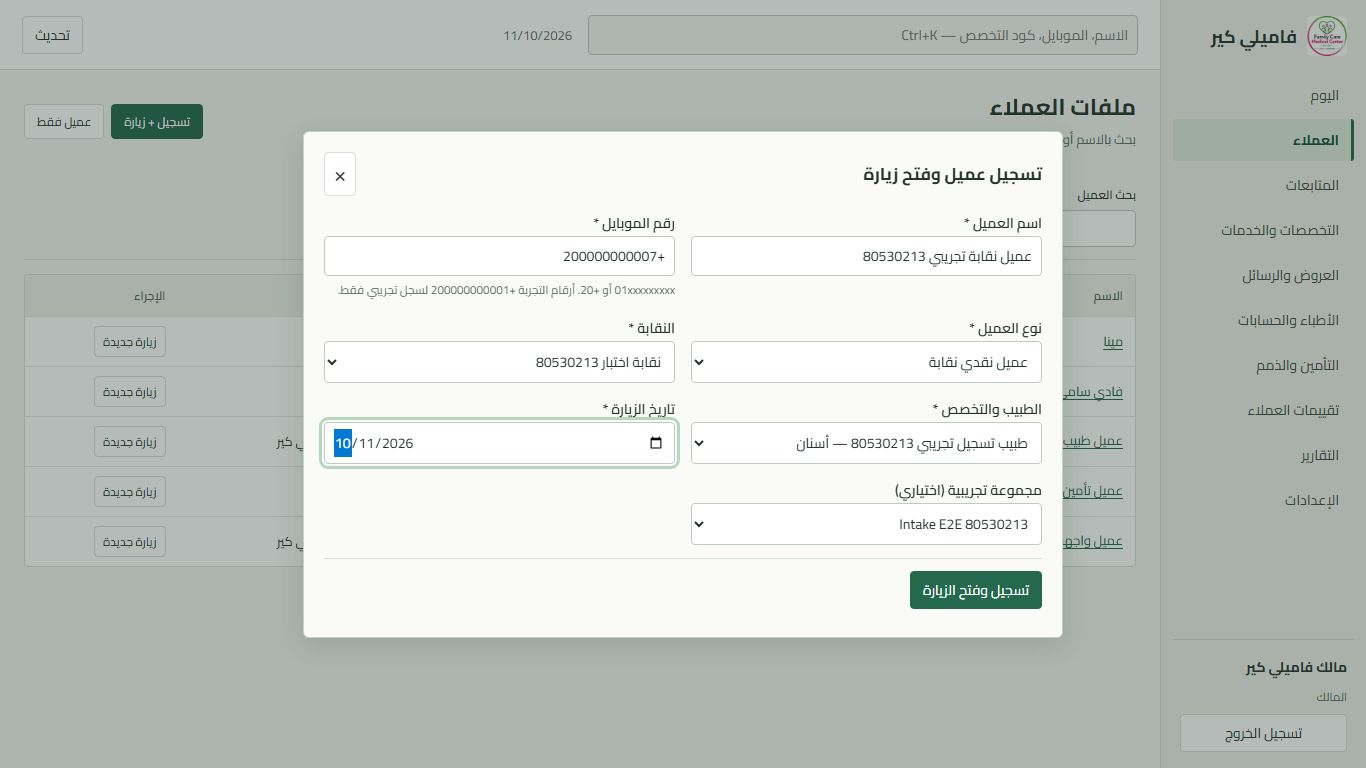
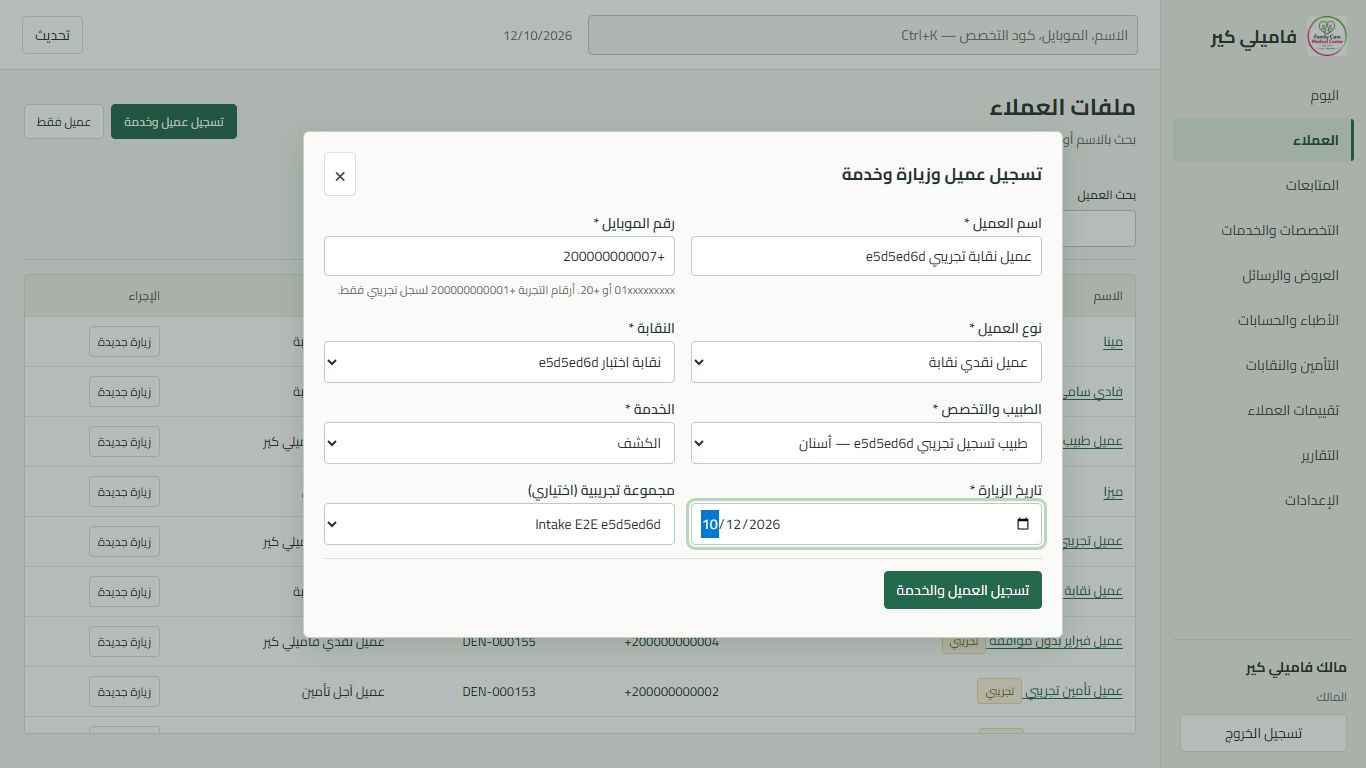
Add service during quick patient intake

diff --git a/src/clinic/Patients.tsx b/src/clinic/Patients.tsx
@@ -31,7 +31,11 @@ export default function Patients() {
  const patient=rows('patients').find(row=>row.id===id);
  const fields=patientFields(rows('client_types'),rows('insurance_companies'),rows('unions'),rows('specialties'),rows('demo_batches'));
  const quickFields:Field[]=[...fields.filter(field=>['name','phone_e164','client_type_code','insurer_id','union_id'].includes(field.key)),
-  {key:'doctor_id',label:'الطبيب والتخصص',type:'select',required:true,options:rows('doctors').filter(row=>row.active).map(row=>({value:row.id,label:`${text(row.name)} — ${name('specialties',row.specialty_id)}`}))},
+  {key:'doctor_id',label:'الطبيب والتخصص',type:'select',required:true,clearOnChange:['service_id'],options:rows('doctors').filter(row=>row.active).map(row=>({value:row.id,label:`${text(row.name)} — ${name('specialties',row.specialty_id)}`}))},
+  {key:'service_id',label:'الخدمة',type:'select',required:true,when:values=>Boolean(values.doctor_id),options:values=>{
+   const doctor=rows('doctors').find(row=>row.id===values.doctor_id);
+   return rows('services').filter(row=>row.active&&row.specialty_id===doctor?.specialty_id&&row.pricing_kind!=='home').map(row=>({value:row.id,label:text(row.name)}));
+  }},
   {key:'visit_date',label:'تاريخ الزيارة',type:'date',required:true},
   ...(profile.role==='owner'?fields.filter(field=>field.key==='demo_batch_id'&&rows('demo_batches').some(row=>!row.archived_at)):[])];
  const codes=(patientId:string)=>rows('patient_specialty_codes').filter(row=>row.patient_id===patientId).map(row=>text(row.code)).join(' · ');
@@ -44,7 +48,7 @@ export default function Patients() {
  <Heading title={patient?text(patient.name):'ملفات العملاء'} detail={patient?`${text(patient.phone_e164)} · ${name('client_types',patient.client_type_code)}`:'بحث بالاسم أو رقم الموبايل أو كود التخصص'}>
    {id&&<Link className="button" to="/patients">كل العملاء</Link>}
    {patient&&profile.role!=='doctor'&&<button className="primary" onClick={()=>{setEditKey(crypto.randomUUID());setEditing(patient);}}>تعديل البيانات</button>}
-   {!patient&&profile.role!=='doctor'&&<><button className="primary" onClick={()=>setQuickKey(crypto.randomUUID())}>تسجيل + زيارة</button><button onClick={()=>{setEditKey(crypto.randomUUID());setEditing(null);}}>عميل فقط</button></>}
+   {!patient&&profile.role!=='doctor'&&<><button className="primary" onClick={()=>setQuickKey(crypto.randomUUID())}>تسجيل عميل وخدمة</button><button onClick={()=>{setEditKey(crypto.randomUUID());setEditing(null);}}>عميل فقط</button></>}
    {patient&&profile.role!=='doctor'&&<button onClick={()=>setBooking(patient)}>زيارة جديدة</button>}
  </Heading>
  {id&&!patient?<p className="empty">الملف غير موجود أو غير متاح لحسابك.</p>:patient?<>
@@ -71,12 +75,12 @@ export default function Patients() {
    if(!values.specialty_id)delete values.specialty_id;
    const result=await patientIntake({idempotency_key:editKey,patient:{...values,...(editing?{id:editing.id}:{})}});await refresh();setEditing(undefined);setEditKey(null);navigate(`/patients/${text(result.patient_id)}`);
  }}/></Dialog>}
- {quickKey&&<Dialog title="تسجيل عميل وفتح زيارة" close={()=>setQuickKey(null)}><div className="quick-intake"><Form fields={quickFields} initial={{client_type_code:'family_care_cash',visit_date:today()}} label="تسجيل وفتح الزيارة" submit={async values=>{
+ {quickKey&&<Dialog title="تسجيل عميل وزيارة وخدمة" close={()=>setQuickKey(null)}><div className="quick-intake"><Form fields={quickFields} initial={{client_type_code:'family_care_cash',visit_date:today()}} label="تسجيل العميل والخدمة" submit={async values=>{
    const doctor=rows('doctors').find(row=>row.id===values.doctor_id);
    if(!doctor)throw new Error('اختار طبيباً نشطاً.');
    const patient:Record<string,unknown>={...values,specialty_id:doctor.specialty_id,insurer_id:values.client_type_code==='insurance_credit'?values.insurer_id:null,union_id:values.client_type_code==='syndicate_cash'?values.union_id:null};
-   for(const key of ['doctor_id','visit_date'])delete patient[key];
-   const result=await patientIntake({idempotency_key:quickKey,patient,visit:{doctor_id:values.doctor_id,visit_date:values.visit_date,location:'clinic'}});
+   for(const key of ['doctor_id','service_id','visit_date'])delete patient[key];
+   const result=await patientIntake({idempotency_key:quickKey,patient,visit:{doctor_id:values.doctor_id,visit_date:values.visit_date,location:'clinic'},service:{service_id:values.service_id}});
    await refresh();setQuickKey(null);navigate(`/visits/${text(result.visit_id)}`);
  }}/></div></Dialog>}
  {booking&&<VisitBooking patient={booking} close={()=>setBooking(null)}/>}

diff --git a/src/clinic/ui.tsx b/src/clinic/ui.tsx
@@ -1,7 +1,7 @@
 import {useEffect,useRef,useState,type ReactNode} from 'react';
 import {text,readableError,type Row} from './api';
 import {minor,percent,decimal} from '../domain/money';
-export type Field={key:string;label:string;type?:'text'|'email'|'password'|'date'|'time'|'number'|'money'|'percent'|'checkbox'|'textarea'|'select'|'weekdays';required?:boolean;options?:{value:string;label:string}[];when?:(values:Record<string,unknown>)=>boolean;hint?:string;min?:number;max?:number};
+export type Field={key:string;label:string;type?:'text'|'email'|'password'|'date'|'time'|'number'|'money'|'percent'|'checkbox'|'textarea'|'select'|'weekdays';required?:boolean;options?:{value:string;label:string}[]|((values:Record<string,unknown>)=>{value:string;label:string}[]);when?:(values:Record<string,unknown>)=>boolean;clearOnChange?:string[];hint?:string;min?:number;max?:number};
 export function Form({fields,initial={},submit,label='حفظ',children}:{fields:Field[];initial?:Record<string,unknown>;submit:(values:Record<string,unknown>)=>Promise<void>;label?:string;children?:ReactNode}) {
  const [values,setValues]=useState<Record<string,unknown>>(()=>Object.fromEntries(fields.map(field=>[field.key,
    field.type==='money'||field.type==='percent'?decimal(initial[field.key]??0):initial[field.key]??(field.type==='checkbox'?false:field.type==='weekdays'?[]:'')])));
@@ -15,10 +15,10 @@ export function Form({fields,initial={},submit,label='حفظ',children}:{fields:
    void submit(normalized).catch(error=>setError(readableError(error))).finally(()=>setBusy(false));
  }}>
    {fields.filter(field=>!field.when||field.when(values)).map(field=>{
-     const id=`field-${field.key}`;const set=(value:unknown)=>setValues(current=>({...current,[field.key]:value}));
+     const id=`field-${field.key}`;const set=(value:unknown)=>setValues(current=>({...current,[field.key]:value,...Object.fromEntries((field.clearOnChange??[]).map(key=>[key,'']))}));
      return <div className={field.type==='textarea'?'field wide':'field'} key={field.key}>
        {field.type==='checkbox'?<label className="check"><input type="checkbox" checked={Boolean(values[field.key])} onChange={event=>set(event.target.checked)}/>{field.label}</label>:<><label htmlFor={id}>{field.label}{field.required?' *':''}</label>
-       {field.type==='select'?<select id={id} required={field.required} value={text(values[field.key])} onChange={event=>set(event.target.value)}><option value="">اختار…</option>{field.options?.map(option=><option key={option.value} value={option.value}>{option.label}</option>)}</select>:
+       {field.type==='select'?<select id={id} required={field.required} value={text(values[field.key])} onChange={event=>set(event.target.value)}><option value="">اختار…</option>{(typeof field.options==='function'?field.options(values):field.options)?.map(option=><option key={option.value} value={option.value}>{option.label}</option>)}</select>:
         field.type==='textarea'?<textarea id={id} required={field.required} value={text(values[field.key])} onChange={event=>set(event.target.value)} rows={3}/>:
         field.type==='weekdays'?<fieldset className="days" id={id}><legend>الأيام المتاحة</legend>{[{day:'السبت',index:6},{day:'الأحد',index:0},{day:'الإثنين',index:1},{day:'الثلاثاء',index:2},{day:'الأربعاء',index:3},{day:'الخميس',index:4},{day:'الجمعة',index:5}].map(({day,index})=><label key={day}><input type="checkbox" checked={(values[field.key] as number[]).includes(index)} onChange={event=>set(event.target.checked?[...(values[field.key] as number[]),index]:(values[field.key] as number[]).filter(value=>value!==index))}/>{day}</label>)}</fieldset>:
         <input id={id} type={field.type==='money'||field.type==='percent'?'text':field.type??'text'} inputMode={['money','percent'].includes(field.type??'')?'decimal':undefined} required={field.required} min={field.min} max={field.max} value={text(values[field.key])} onChange={event=>set(event.target.value)} autoComplete={field.type==='password'?'new-password':undefined}/>}

diff --git a/src/clinic/api.ts b/src/clinic/api.ts
@@ -13,6 +13,7 @@ const messages: Record<string,string> = {
  REVERSE_FINANCIAL_RECORDS_FIRST:'اعكس التحصيل والتسويات أولاً للحفاظ على الحسابات.',PRICE_LIST_INCOMPLETE:'القائمة لازم تشمل كل الخدمات النشطة.',
  IDEMPOTENCY_CONFLICT:'الطلب اتغير. افتح النموذج من جديد.',CAMPAIGN_SPECIALTY_REQUIRED:'اختار تخصص العرض في فلاتر الحملة.',
  UNION_REQUIRED:'اختار النقابة.',UNION_INACTIVE:'النقابة غير نشطة. اختار نقابة أخرى.',UNION_NOT_APPLICABLE:'النقابة متاحة لعميل النقابة فقط.',
+ SERVICE_REQUIRED:'اختار الخدمة.',
  };
 export function readableError(error: unknown): string {
  if (error instanceof Error && !('code' in error)) return error.message;

diff --git a/docs/STATE.md b/docs/STATE.md
@@ -1,5 +1,9 @@
 # حالة المشروع — 09/10/2026
 
+## تسجيل العميل والخدمة معاً — 12/10/2026
+
+النموذج الرئيسي للاستقبال صار «تسجيل عميل وخدمة»: اختيار الطبيب يُظهر خدمات تخصصه، وتُحفظ بيانات العميل والزيارة والخدمة في معاملة واحدة بمفتاح إعادة محاولة. يبقى «عميل فقط» والتعديل المفصل وإضافة خدمات أخرى من الزيارة متاحين. الترحيلة التصاعدية `20261011205815_intake_with_service.sql` مطبقة على مشروع التطوير المعتمد دون تغيير سجلات قديمة. نجحت 16 اختبار قاعدة ومال و6 رحلات متصفح، منها رفض يوم الطبيب غير المتاح وإضافة الخدمة من النموذج السريع واختبار الاستقبال على الكمبيوتر والهاتف. نجحت فحوص lint وtypecheck وbuild وverify، وأُرشفت مجموعات التجربة التي أُنشئت أثناء هذا التعديل مع إبقاء التاريخ المالي. لقطتا النموذج في `docs/review/intake-desktop.jpg` و`docs/review/intake-phone.jpg`.
+
 ## نسب الأطباء وأيامهم والتأمين — 11/10/2026
 
 انتقلت إدارة النقابات إلى شاشة المالك «التأمين والنقابات» بجوار شركات التأمين، مع زر «إضافة نقابة». عند اختيار نوع تأمين يظهر اسم الشركة ونسبة تحمّل العميل وتغطية الشركة في نموذج العميل. تُدخل نسبة تحمّل العميل فقط، وتظهر النسبة المكملة للشركة. الخدمات الجديدة على زيارات التأمين تقرأ نسخة سعر فاميلي كير السارية وقت الزيارة؛ تحفظ الزيارة نسبة التحمل وتحتفظ الخدمة بنسخة السعر ونسبة الطبيب. الزيارات المسعّرة سابقاً تظل على نسخ أسعارها القديمة. الترحيلة التصاعدية `20261011202819_insurance_family_care_base_price.sql` مطبقة على مشروع التطوير المعتمد.

diff --git a/docs/ASSUMPTIONS.md b/docs/ASSUMPTIONS.md
@@ -23,7 +23,7 @@
 ## Clients, jobs and consent
 
 - لكل عميل من نوع «نقابة» نقابة واحدة يختارها الاستقبال من قائمة يديرها المالك. الانتماء يُحفظ في الملف وتُلتقط نسخة منه عند فتح الزيارة. لا تُنشأ قوائم أسعار منفصلة لكل نقابة حتى يقدّم المالك أسعاراً مختلفة؛ القائمة الحالية الخاصة بنوع «النقابة» تطبق على الجميع. السجلات القديمة غير محددة النقابة تبقى محفوظة، وتحتاج اختيار نقابتها عند تعديل الملف.
-- زر «تسجيل + زيارة» هو المسار الرئيسي ويأخذ بيانات الحد الأدنى ويفتح زيارة عيادة؛ زر «عميل فقط» يبقي المسار المفصل، والوقت والزيارة المنزلية وموافقات الرسائل وبقية بيانات الملف تبقى في نماذجها المعتادة. لو فشل الحجز لا يُحفظ ملف عميل ناقص.
+- زر «تسجيل عميل وخدمة» هو المسار الرئيسي ويأخذ بيانات الحد الأدنى، ويضيف خدمة واحدة من تخصص الطبيب بكمية واحدة إلى زيارة عيادة. تُفتح الزيارة بعد الحفظ لاستكمال التحصيل أو إضافة خدمات أخرى. زر «عميل فقط» يبقي المسار المفصل، والوقت والزيارة المنزلية وموافقات الرسائل وبقية بيانات الملف تبقى في نماذجها المعتادة. لو فشل الحجز أو إضافة الخدمة لا يُحفظ ملف عميل ناقص.
 
 - A person has one client type and multiple specialty-specific codes. Dentistry uses `DEN-000001`; other specialties have owner-editable unique prefixes. Offer codes are also specialty-scoped.
 - Marketing consent defaults to false. Birthday/campaign messages require consent; follow-up reminders have a separate transactional-message preference. An opt-out is checked again immediately before mock dispatch.

diff --git a/docs/USER_GUIDE.md b/docs/USER_GUIDE.md
@@ -20,7 +20,7 @@
 
 ## تسجيل عميل جديد
 
-للتسجيل السريع، افتح «العملاء» واضغط الزر الرئيسي «تسجيل + زيارة». اكتب الاسم والموبايل، واختر نوع العميل والطبيب وتاريخ الزيارة، ثم اضغط «تسجيل وفتح الزيارة». يظهر اختيار النقابة أو شركة التأمين فقط عند الحاجة. يفتح النظام ملف العميل والزيارة معاً، ويمكن إضافة الخدمات بعد ذلك. إذا كان العميل مسجلاً بالفعل، ابحث عنه وافتح زيارة من ملفه حتى لا يتكرر.
+للتسجيل السريع، افتح «العملاء» واضغط الزر الرئيسي «تسجيل عميل وخدمة». اكتب الاسم والموبايل، واختر نوع العميل والطبيب والخدمة وتاريخ الزيارة، ثم اضغط «تسجيل العميل والخدمة». تظهر خدمات تخصص الطبيب فقط، ويظهر اختيار النقابة أو شركة التأمين عند الحاجة. يحفظ النظام ملف العميل والزيارة والخدمة معاً، ثم يفتح الزيارة للتحصيل أو إضافة خدمات أخرى. إذا كان العميل مسجلاً بالفعل، ابحث عنه وافتح زيارة من ملفه حتى لا يتكرر.
 
 1. إذا احتجت تسجيل الملف من دون زيارة، افتح «العملاء» ثم «عميل فقط». إذا كان العميل مسجلاً، ابحث عنه وافتح ملفه بدلاً من إنشاء سجل مكرر.
 2. أدخل الاسم ورقم الموبايل المصري. يقبل النظام الرقم المحلي مثل `01xxxxxxxxx` أو الدولي بصيغة `+20`، ويحفظه بالصيغة الدولية.

diff --git a/README.md b/README.md
@@ -4,7 +4,7 @@
 
 لشرح العمل اليومي حسب الصلاحيات، افتح [دليل الاستخدام المصور PDF](output/pdf/family-care-user-guide-ar.pdf) أو [النسخة النصية](docs/USER_GUIDE.md).
 
-للاستقبال تسجيل سريع من «العملاء ← تسجيل + زيارة»؛ يطلب الاسم والموبايل والنوع والطبيب والتاريخ، ويُظهر النقابة أو شركة التأمين فقط عند الحاجة. زر «عميل فقط» يفتح نموذج الملف المفصل. المالك يدير النقابات والشركات من «التأمين والنقابات». أسعار زيارات التأمين الجديدة تبدأ من قائمة فاميلي كير ثم تُقسم حسب نسبة تحمّل العميل للشركة. الدليل النصي يشرح المسار الجديد؛ نسخة PDF المصورة توثق المسار التقليدي.
+للاستقبال تسجيل سريع من «العملاء ← تسجيل عميل وخدمة»؛ يطلب الاسم والموبايل والنوع والطبيب والخدمة والتاريخ، ويُظهر النقابة أو شركة التأمين فقط عند الحاجة. يحفظ العميل والزيارة والخدمة معاً. زر «عميل فقط» يفتح نموذج الملف المفصل. المالك يدير النقابات والشركات من «التأمين والنقابات». أسعار زيارات التأمين الجديدة تبدأ من قائمة فاميلي كير ثم تُقسم حسب نسبة تحمّل العميل للشركة. الدليل النصي يشرح المسار الجديد؛ نسخة PDF المصورة توثق المسار التقليدي.
 
 ## تشغيل نسخة جديدة
 

diff --git a/docs/PLAN.md b/docs/PLAN.md
@@ -1,5 +1,13 @@
 # Delivery checklist
 
+## Reception intake with service
+
+- [x] Add a specialty-filtered service selector to quick customer intake while keeping the detailed flows.
+- [x] Save customer, visit and selected service atomically with the existing idempotency key.
+- [x] Apply the forward-only migration and test successful and rejected intake against the development database.
+- [x] Verify desktop and phone screens, lint, typecheck and build.
+- [ ] Publish the tested change and verify the deployed build.
+
 ## Read and prepare
 
 - [x] Read all application source, manifests, schema, config and env example.
